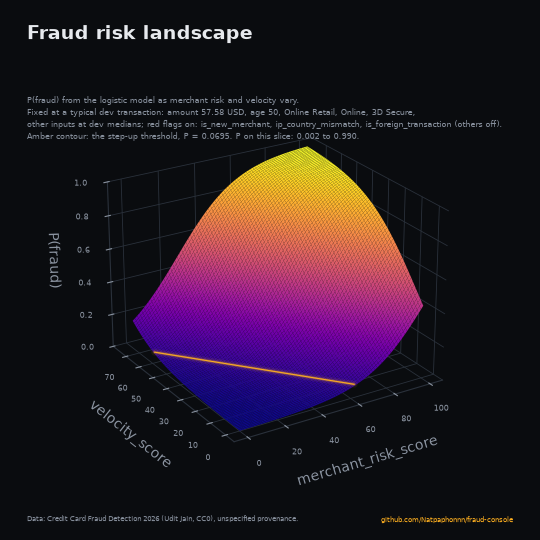
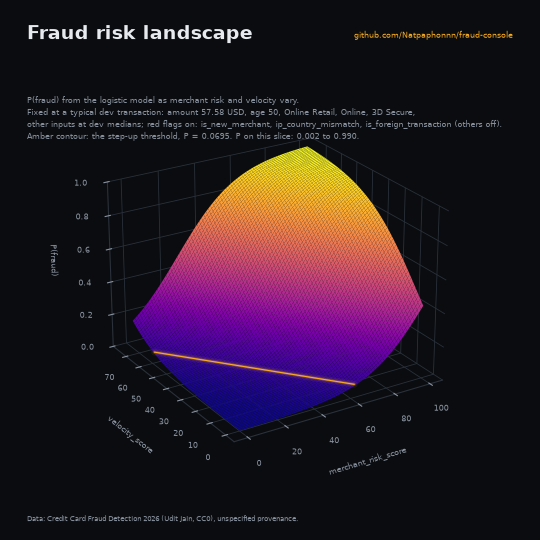
Content figures: link on the title line, social layout clears the credit, vertical clips fit while rotating

diff --git a/scripts/content_figures.py b/scripts/content_figures.py
@@ -205,12 +205,12 @@ def caption_file(t: dict) -> str:
 def canvas(w: int, h: int, variant: str, t: dict):
     fig = plt.figure(figsize=(w / 100, h / 100), dpi=100, facecolor=BG)
     k = min(w, h) / 1080
-    if h > w:  # vertical 9:16
-        rect = [-0.06, 0.2, 1.12, 0.62]
+    if h > w:  # vertical 9:16: the rotating plot gets the full width of the middle band
+        rect = [0.0, 0.15, 1.0, 0.68]
     elif w > h:
-        rect = [0.2, 0.08, 0.6, 0.76] if variant == "full" else [0.12, 0.05, 0.76, 0.84]
+        rect = [0.2, 0.08, 0.6, 0.76] if variant == "full" else [0.12, 0.1, 0.76, 0.8]
     else:
-        rect = [0.02, 0.12, 0.96, 0.7] if variant == "full" else [0.0, 0.07, 1.0, 0.82]
+        rect = [0.02, 0.12, 0.96, 0.7] if variant == "full" else [0.02, 0.13, 0.96, 0.76]
     ax = fig.add_axes(rect, projection="3d", facecolor=BG)
     fs = 10 * k
     top = 0.955 if h <= w else 0.94
@@ -219,15 +219,11 @@ def canvas(w: int, h: int, variant: str, t: dict):
         fig.text(0.05, top - 0.065 * 1080 / h, t["body"], color=MUTED, fontsize=1.15 * fs,
                  va="top", linespacing=1.5)  # fmt: skip
     fig.text(0.05, 0.03, t["credit"], color=MUTED, fontsize=fs, va="bottom", linespacing=1.5)
-    link = load_links().get("github", "")
-    if link:
-        if w >= h:
-            fig.text(0.95, 0.03, link.replace("https://", ""), color=ACCENT, fontsize=fs,
-                     ha="right", va="bottom")  # fmt: skip
-        else:
-            fig.text(
-                0.05, 0.07, link.replace("https://", ""), color=ACCENT, fontsize=fs, va="bottom"
-            )
+    link = load_links().get("github", "").replace("https://", "")
+    if link and w >= h:  # top right, on the title line: never collides with the credit lines
+        fig.text(0.95, top - 0.012, link, color=ACCENT, fontsize=1.1 * fs, ha="right", va="top")
+    elif link:  # vertical: under the title
+        fig.text(0.05, top - 0.04, link, color=ACCENT, fontsize=1.1 * fs, va="top")
     return fig, ax, k
 
 
@@ -355,6 +351,8 @@ def render(name: str, d: dict, w: int, h: int, variant: str, phase=None, fig_ax=
         ax.cla()
     style(ax, k, hide)
     scene(ax, d, k, phase)
+    for axis in (ax.xaxis, ax.yaxis, ax.zaxis):  # axis titles scale with the canvas like the ticks
+        axis.label.set_fontsize(12 * k)
     if phase is None:
         ax.view_init(elev=elev, azim=azim)
     else:  # one full turn per loop, gentle bob
